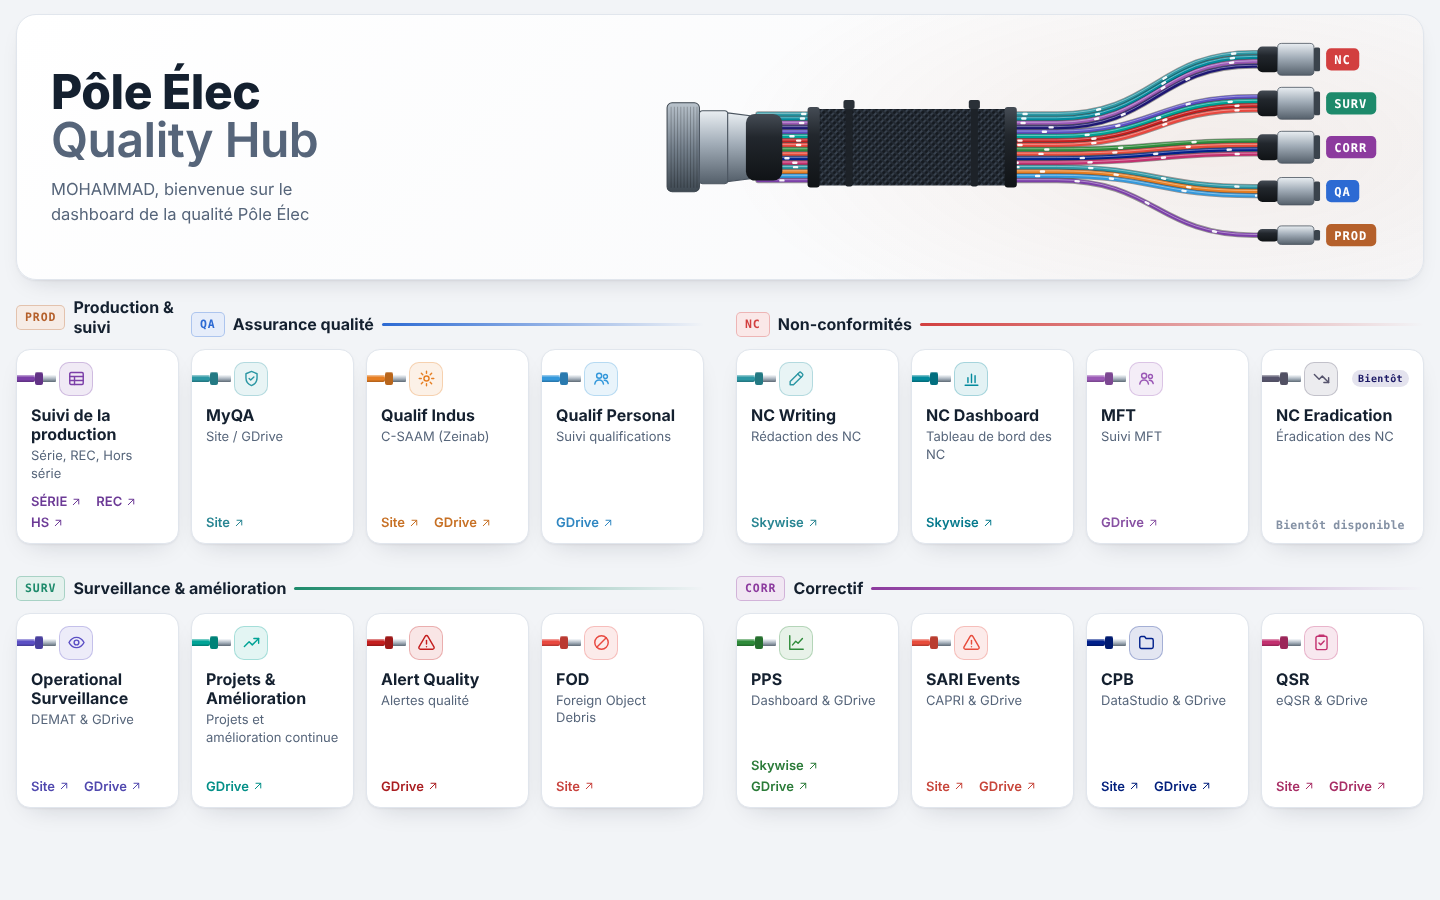
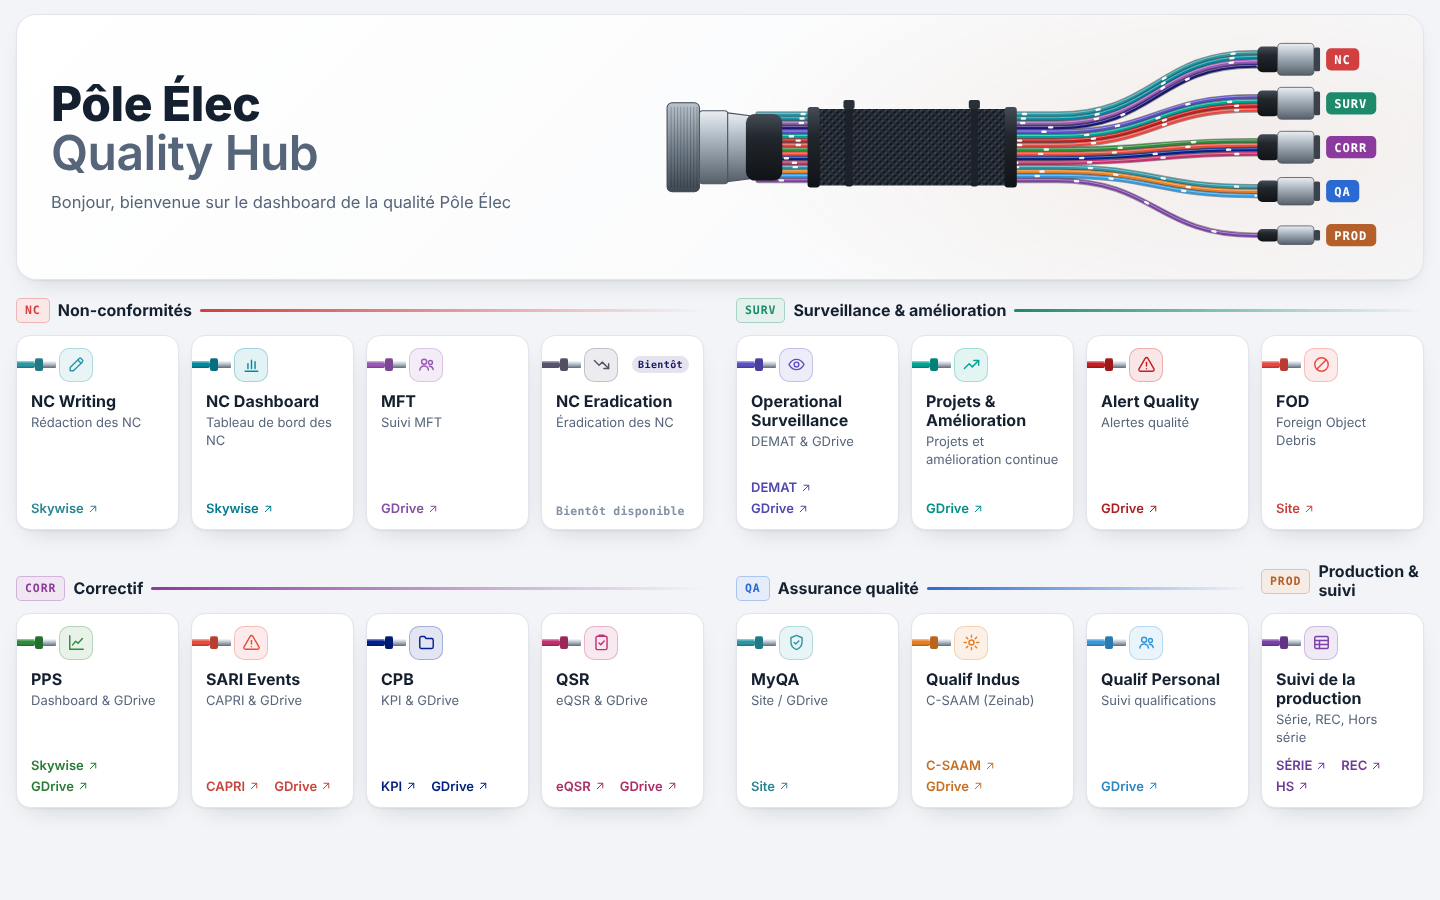
Hub: groups in the drawing's order, no name in the greeting, link names back
Groups now follow the drawing (Non-conformités, Surveillance, Correctif,
Assurance qualité, Production & suivi). The greeting no longer names
anyone ("Bonjour, bienvenue sur le dashboard de la qualité Pôle Élec").
Links with a name in the config show it again (DEMAT, C-SAAM, CAPRI,
eQSR); CPB's report link is "KPI". Single links keep the GDrive /
Skywise / Site label. README notes that a plain click opens links when
the page runs on its own.

Claude-Session: https://claude.ai/code/session_017pLD4XkEhj6BKkNzrEKz3H

diff --git a/09_pole_elec_hub/hub/pole_elec_hub.html b/09_pole_elec_hub/hub/pole_elec_hub.html
@@ -162,9 +162,9 @@ a.lk-i:hover svg,a.lk-i:focus-visible svg,.card.link:not(.multi):hover .lk-i svg
 //    links       instead of link, several addresses:
 //                [ { name: "GDrive", url: "https://..." }, ... ]
 //                (a link still set to "A_COMPLETER" is not shown)
-//  Each link is labelled by what it opens, found from its address: GDrive,
-//  Skywise or Site (Sheets for a spreadsheet). When two links of a card open
-//  the same kind of thing, they show their own names instead (SÉRIE, REC, HS).
+//  Each of these links shows its name. A tool with a single link shows what
+//  it opens, found from its address: GDrive, Skywise or Site (Sheets for a
+//  spreadsheet).
 //    guide       optional extra link, shown as "Guide utilisateur"
 //    soon        true = shown as "Bientôt disponible" and not clickable;
 //                delete the line when the tool goes live
@@ -174,45 +174,18 @@ a.lk-i:hover svg,a.lk-i:focus-visible svg,.card.link:not(.multi):hover .lk-i svg
 //
 //  The page has eight cards per row on a wide screen (four below 1240 px),
 //  all the same size. Groups follow in the order below and share a row while
-//  they fit in it (here Production & suivi, Assurance qualité and
-//  Non-conformités: 1 + 3 + 4 tools; then Surveillance & amélioration and
-//  Correctif: 4 + 4); otherwise a group starts a new row.
+//  they fit in it (here Non-conformités and Surveillance & amélioration:
+//  4 + 4 tools; then Correctif, Assurance qualité and Production & suivi:
+//  4 + 3 + 1); otherwise a group starts a new row. The drawing puts the
+//  biggest groups at the top, so keep the groups in that order to match it.
 // =============================================================================
 
 const HUB_CONFIG = {
   title: "Pôle Élec",
   subtitle: "Quality Hub",
-  // in Slate the first name comes from {{user.firstName}}
-  welcome: "MOHAMMAD, bienvenue sur le dashboard de la qualité Pôle Élec",
+  welcome: "Bonjour, bienvenue sur le dashboard de la qualité Pôle Élec",
 
   groups: [
-    {
-      name: "Production & suivi", code: "PROD", color: "#b5602b",
-      tools: [
-        { name: "Suivi de la production", description: "Série, REC, Hors série", icon: "table", color: "#7b3fa8",
-          links: [
-            { name: "SÉRIE", url: "https://docs.google.com/spreadsheets/d/1ZiR6qiyPivrTtRxDHg43n0SApw3LIw15SGXKZb51e4c/edit?gid=0#gid=0" },
-            { name: "REC", url: "https://docs.google.com/spreadsheets/d/1bUtT0iVMSCTUDYNmFqPJDf3PRiowM0yhojg6MTv4HfY/edit?gid=0#gid=0" },
-            { name: "HS", url: "https://docs.google.com/spreadsheets/d/1_yBq9OYhxNDydYhHy8PQtPVJEFncIMymBPIpRG2Qb1o/edit?gid=0#gid=0" }
-          ]
-        }
-      ]
-    },
-    {
-      name: "Assurance qualité", code: "QA", color: "#2c6ad3",
-      tools: [
-        { name: "MyQA", description: "Site / GDrive", icon: "shield", color: "#2c97a4",
-          link: "https://sites.google.com/airbus.com/myqa-tool-fr/accueil" },
-        { name: "Qualif Indus", description: "C-SAAM (Zeinab)", icon: "gear", color: "#e67e22",
-          links: [
-            { name: "C-SAAM", url: "https://pac.intra.corp/airbus/ac/internal/1W79/zcsaam_new/start.html?saml2idp=1s14:hub-p:saml2#/IQRegister" },
-            { name: "GDrive", url: "https://drive.google.com/drive/folders/1UEeVKj2uC1cDQbI-vEmktx6b4oJOP3o_" }
-          ]
-        },
-        { name: "Qualif Personal", description: "Suivi qualifications", icon: "people", color: "#3498db",
-          link: "https://drive.google.com/drive/folders/11ZpFytNOF6aQMO8YE3hDUy7XNBkCofaE" }
-      ]
-    },
     {
       name: "Non-conformités", code: "NC", color: "#d23f3f",
       tools: [
@@ -259,9 +232,9 @@ const HUB_CONFIG = {
             { name: "GDrive", url: "https://drive.google.com/drive/folders/1m0bYZ-A_lOKRfbfXfjfLyXN5pwDhOKlr" }
           ]
         },
-        { name: "CPB", description: "DataStudio & GDrive", icon: "folder", color: "#00208b",
+        { name: "CPB", description: "KPI & GDrive", icon: "folder", color: "#00208b",
           links: [
-            { name: "Lien", url: "https://datastudio.google.com/u/0/reporting/09b0a3bd-a6da-4be0-92e3-3805e3df8344/page/p_p2eag9tand/edit" },
+            { name: "KPI", url: "https://datastudio.google.com/u/0/reporting/09b0a3bd-a6da-4be0-92e3-3805e3df8344/page/p_p2eag9tand/edit" },
             { name: "GDrive", url: "https://drive.google.com/drive/folders/1L9W2W8j5fqVKlQuw7skTLHCQ2S9oHP0K" }
           ]
         },
@@ -269,6 +242,33 @@ const HUB_CONFIG = {
           links: [
             { name: "eQSR", url: "https://pac.intra.corp/airbus/ac/internal/G010/home/index.html?sap-client=001" },
             { name: "GDrive", url: "https://drive.google.com/drive/folders/1h_j30m-bGdgTYn2g9UWQ8-cHDq2S-JAf" }
+          ]
+        }
+      ]
+    },
+    {
+      name: "Assurance qualité", code: "QA", color: "#2c6ad3",
+      tools: [
+        { name: "MyQA", description: "Site / GDrive", icon: "shield", color: "#2c97a4",
+          link: "https://sites.google.com/airbus.com/myqa-tool-fr/accueil" },
+        { name: "Qualif Indus", description: "C-SAAM (Zeinab)", icon: "gear", color: "#e67e22",
+          links: [
+            { name: "C-SAAM", url: "https://pac.intra.corp/airbus/ac/internal/1W79/zcsaam_new/start.html?saml2idp=1s14:hub-p:saml2#/IQRegister" },
+            { name: "GDrive", url: "https://drive.google.com/drive/folders/1UEeVKj2uC1cDQbI-vEmktx6b4oJOP3o_" }
+          ]
+        },
+        { name: "Qualif Personal", description: "Suivi qualifications", icon: "people", color: "#3498db",
+          link: "https://drive.google.com/drive/folders/11ZpFytNOF6aQMO8YE3hDUy7XNBkCofaE" }
+      ]
+    },
+    {
+      name: "Production & suivi", code: "PROD", color: "#b5602b",
+      tools: [
+        { name: "Suivi de la production", description: "Série, REC, Hors série", icon: "table", color: "#7b3fa8",
+          links: [
+            { name: "SÉRIE", url: "https://docs.google.com/spreadsheets/d/1ZiR6qiyPivrTtRxDHg43n0SApw3LIw15SGXKZb51e4c/edit?gid=0#gid=0" },
+            { name: "REC", url: "https://docs.google.com/spreadsheets/d/1bUtT0iVMSCTUDYNmFqPJDf3PRiowM0yhojg6MTv4HfY/edit?gid=0#gid=0" },
+            { name: "HS", url: "https://docs.google.com/spreadsheets/d/1_yBq9OYhxNDydYhHy8PQtPVJEFncIMymBPIpRG2Qb1o/edit?gid=0#gid=0" }
           ]
         }
       ]
@@ -325,10 +325,8 @@ if(!C||!Array.isArray(C.groups)){
         const a=(u,label,c)=>'<a class="'+c+'" href="'+esc(u)+'" target="_blank" rel="noopener">'+esc(label)+'</a>';
         const guide=t.guide&&!todo(t.guide)?a(t.guide,"Guide utilisateur","guide"):'';
         const name=state==="link"&&!multi?a(t.link,t.name,"stretch"):esc(t.name);
-        // each link is labelled by what it opens; links of the same kind on one card keep their own names
-        const items=(multi?list:[{url:t.link}]).map(l=>({url:l.url, own:l.name, label:dest(l.url)}));
-        const same={}; items.forEach(x=>same[x.label]=(same[x.label]||0)+1);
-        items.forEach(x=>{ if(x.own&&same[x.label]>1) x.label=x.own; });
+        // each link shows its name from the config; a single link is labelled by what it opens
+        const items=(multi?list:[{url:t.link}]).map(l=>({url:l.url, label:l.name||dest(l.url)}));
         const label=x=>'<span class="lk-t">'+esc(x.label)+'</span>'+svgI("ext");
         const foot=state==="soon"?'<span class="state">Bientôt disponible</span>'
                   :state==="nolink"?'<span class="state">Lien à compléter</span>'

diff --git a/09_pole_elec_hub/slate/hub.js b/09_pole_elec_hub/slate/hub.js
@@ -16,9 +16,9 @@
 //    links       instead of link, several addresses:
 //                [ { name: "GDrive", url: "https://..." }, ... ]
 //                (a link still set to "A_COMPLETER" is not shown)
-//  Each link is labelled by what it opens, found from its address: GDrive,
-//  Skywise or Site (Sheets for a spreadsheet). When two links of a card open
-//  the same kind of thing, they show their own names instead (SÉRIE, REC, HS).
+//  Each of these links shows its name. A tool with a single link shows what
+//  it opens, found from its address: GDrive, Skywise or Site (Sheets for a
+//  spreadsheet).
 //    guide       optional extra link, shown as "Guide utilisateur"
 //    soon        true = shown as "Bientôt disponible" and not clickable;
 //                delete the line when the tool goes live
@@ -28,45 +28,18 @@
 //
 //  The page has eight cards per row on a wide screen (four below 1240 px),
 //  all the same size. Groups follow in the order below and share a row while
-//  they fit in it (here Production & suivi, Assurance qualité and
-//  Non-conformités: 1 + 3 + 4 tools; then Surveillance & amélioration and
-//  Correctif: 4 + 4); otherwise a group starts a new row.
+//  they fit in it (here Non-conformités and Surveillance & amélioration:
+//  4 + 4 tools; then Correctif, Assurance qualité and Production & suivi:
+//  4 + 3 + 1); otherwise a group starts a new row. The drawing puts the
+//  biggest groups at the top, so keep the groups in that order to match it.
 // =============================================================================
 
 const HUB_CONFIG = {
   title: "Pôle Élec",
   subtitle: "Quality Hub",
-  // in Slate the first name comes from {{user.firstName}}
-  welcome: "MOHAMMAD, bienvenue sur le dashboard de la qualité Pôle Élec",
+  welcome: "Bonjour, bienvenue sur le dashboard de la qualité Pôle Élec",
 
   groups: [
-    {
-      name: "Production & suivi", code: "PROD", color: "#b5602b",
-      tools: [
-        { name: "Suivi de la production", description: "Série, REC, Hors série", icon: "table", color: "#7b3fa8",
-          links: [
-            { name: "SÉRIE", url: "https://docs.google.com/spreadsheets/d/1ZiR6qiyPivrTtRxDHg43n0SApw3LIw15SGXKZb51e4c/edit?gid=0#gid=0" },
-            { name: "REC", url: "https://docs.google.com/spreadsheets/d/1bUtT0iVMSCTUDYNmFqPJDf3PRiowM0yhojg6MTv4HfY/edit?gid=0#gid=0" },
-            { name: "HS", url: "https://docs.google.com/spreadsheets/d/1_yBq9OYhxNDydYhHy8PQtPVJEFncIMymBPIpRG2Qb1o/edit?gid=0#gid=0" }
-          ]
-        }
-      ]
-    },
-    {
-      name: "Assurance qualité", code: "QA", color: "#2c6ad3",
-      tools: [
-        { name: "MyQA", description: "Site / GDrive", icon: "shield", color: "#2c97a4",
-          link: "https://sites.google.com/airbus.com/myqa-tool-fr/accueil" },
-        { name: "Qualif Indus", description: "C-SAAM (Zeinab)", icon: "gear", color: "#e67e22",
-          links: [
-            { name: "C-SAAM", url: "https://pac.intra.corp/airbus/ac/internal/1W79/zcsaam_new/start.html?saml2idp=1s14:hub-p:saml2#/IQRegister" },
-            { name: "GDrive", url: "https://drive.google.com/drive/folders/1UEeVKj2uC1cDQbI-vEmktx6b4oJOP3o_" }
-          ]
-        },
-        { name: "Qualif Personal", description: "Suivi qualifications", icon: "people", color: "#3498db",
-          link: "https://drive.google.com/drive/folders/11ZpFytNOF6aQMO8YE3hDUy7XNBkCofaE" }
-      ]
-    },
     {
       name: "Non-conformités", code: "NC", color: "#d23f3f",
       tools: [
@@ -113,9 +86,9 @@ const HUB_CONFIG = {
             { name: "GDrive", url: "https://drive.google.com/drive/folders/1m0bYZ-A_lOKRfbfXfjfLyXN5pwDhOKlr" }
           ]
         },
-        { name: "CPB", description: "DataStudio & GDrive", icon: "folder", color: "#00208b",
+        { name: "CPB", description: "KPI & GDrive", icon: "folder", color: "#00208b",
           links: [
-            { name: "Lien", url: "https://datastudio.google.com/u/0/reporting/09b0a3bd-a6da-4be0-92e3-3805e3df8344/page/p_p2eag9tand/edit" },
+            { name: "KPI", url: "https://datastudio.google.com/u/0/reporting/09b0a3bd-a6da-4be0-92e3-3805e3df8344/page/p_p2eag9tand/edit" },
             { name: "GDrive", url: "https://drive.google.com/drive/folders/1L9W2W8j5fqVKlQuw7skTLHCQ2S9oHP0K" }
           ]
         },
@@ -123,6 +96,33 @@ const HUB_CONFIG = {
           links: [
             { name: "eQSR", url: "https://pac.intra.corp/airbus/ac/internal/G010/home/index.html?sap-client=001" },
             { name: "GDrive", url: "https://drive.google.com/drive/folders/1h_j30m-bGdgTYn2g9UWQ8-cHDq2S-JAf" }
+          ]
+        }
+      ]
+    },
+    {
+      name: "Assurance qualité", code: "QA", color: "#2c6ad3",
+      tools: [
+        { name: "MyQA", description: "Site / GDrive", icon: "shield", color: "#2c97a4",
+          link: "https://sites.google.com/airbus.com/myqa-tool-fr/accueil" },
+        { name: "Qualif Indus", description: "C-SAAM (Zeinab)", icon: "gear", color: "#e67e22",
+          links: [
+            { name: "C-SAAM", url: "https://pac.intra.corp/airbus/ac/internal/1W79/zcsaam_new/start.html?saml2idp=1s14:hub-p:saml2#/IQRegister" },
+            { name: "GDrive", url: "https://drive.google.com/drive/folders/1UEeVKj2uC1cDQbI-vEmktx6b4oJOP3o_" }
+          ]
+        },
+        { name: "Qualif Personal", description: "Suivi qualifications", icon: "people", color: "#3498db",
+          link: "https://drive.google.com/drive/folders/11ZpFytNOF6aQMO8YE3hDUy7XNBkCofaE" }
+      ]
+    },
+    {
+      name: "Production & suivi", code: "PROD", color: "#b5602b",
+      tools: [
+        { name: "Suivi de la production", description: "Série, REC, Hors série", icon: "table", color: "#7b3fa8",
+          links: [
+            { name: "SÉRIE", url: "https://docs.google.com/spreadsheets/d/1ZiR6qiyPivrTtRxDHg43n0SApw3LIw15SGXKZb51e4c/edit?gid=0#gid=0" },
+            { name: "REC", url: "https://docs.google.com/spreadsheets/d/1bUtT0iVMSCTUDYNmFqPJDf3PRiowM0yhojg6MTv4HfY/edit?gid=0#gid=0" },
+            { name: "HS", url: "https://docs.google.com/spreadsheets/d/1_yBq9OYhxNDydYhHy8PQtPVJEFncIMymBPIpRG2Qb1o/edit?gid=0#gid=0" }
           ]
         }
       ]
@@ -179,10 +179,8 @@ if(!C||!Array.isArray(C.groups)){
         const a=(u,label,c)=>'<a class="'+c+'" href="'+esc(u)+'" target="_blank" rel="noopener">'+esc(label)+'</a>';
         const guide=t.guide&&!todo(t.guide)?a(t.guide,"Guide utilisateur","guide"):'';
         const name=state==="link"&&!multi?a(t.link,t.name,"stretch"):esc(t.name);
-        // each link is labelled by what it opens; links of the same kind on one card keep their own names
-        const items=(multi?list:[{url:t.link}]).map(l=>({url:l.url, own:l.name, label:dest(l.url)}));
-        const same={}; items.forEach(x=>same[x.label]=(same[x.label]||0)+1);
-        items.forEach(x=>{ if(x.own&&same[x.label]>1) x.label=x.own; });
+        // each link shows its name from the config; a single link is labelled by what it opens
+        const items=(multi?list:[{url:t.link}]).map(l=>({url:l.url, label:l.name||dest(l.url)}));
         const label=x=>'<span class="lk-t">'+esc(x.label)+'</span>'+svgI("ext");
         const foot=state==="soon"?'<span class="state">Bientôt disponible</span>'
                   :state==="nolink"?'<span class="state">Lien à compléter</span>'

diff --git a/09_pole_elec_hub/README.md b/09_pole_elec_hub/README.md
@@ -12,17 +12,19 @@ The page to use is `hub/pole_elec_hub.html` (previews: `screenshots/hub_final.pn
 
 For Slate, `slate/` holds the same page in three parts: `hub.html` (markup), `hub.css` and `hub.js` (with `HUB_CONFIG` at the top). After changing `hub/pole_elec_hub.html`, run `python build_slate.py` to rebuild them.
 
-Content: Mohammad's own list of 21 Oct (links, groups and the tools with several links), built on the Slate export of the current app (`06_input_data/slate_hub_export_2026-10-20.json`). Five groups, sixteen tools:
+Content: Mohammad's own list of 21 Oct (links, groups and the tools with several links), built on the Slate export of the current app (`06_input_data/slate_hub_export_2026-10-20.json`). Five groups, sixteen tools, in the order of the drawing (biggest groups at the top):
 
-- **Production & suivi:** Suivi de la production (three buttons: SÉRIE, REC, HS).
-- **Assurance qualité:** MyQA, Qualif Indus (C-SAAM, GDrive), Qualif Personal.
 - **Non-conformités:** NC Writing, NC Dashboard, MFT, NC Eradication (shown as "Bientôt disponible" until it goes live; its link and user guide are already in the config).
 - **Surveillance & amélioration:** Operational Surveillance (DEMAT, GDrive), Projets & Amélioration, Alert Quality, FOD.
-- **Correctif:** PPS (Skywise, GDrive), SARI Events (CAPRI, GDrive), CPB (Lien, GDrive), QSR (eQSR, GDrive).
+- **Correctif:** PPS (Skywise, GDrive), SARI Events (CAPRI, GDrive), CPB (KPI, GDrive), QSR (eQSR, GDrive).
+- **Assurance qualité:** MyQA, Qualif Indus (C-SAAM, GDrive), Qualif Personal.
+- **Production & suivi:** Suivi de la production (SÉRIE, REC, HS).
 
-At the foot of each card, every link is a short text link labelled by what it opens, found from its address: **GDrive**, **Skywise** or **Site** (any other web page, e.g. DEMAT, C-SAAM, CAPRI, eQSR, DataStudio), followed by a small ↗ and underlined on hover. When links of one card open the same kind of thing they keep their own names (SÉRIE, REC, HS). A tool with one `link` opens from anywhere on its card; with `links`, only the labels are clickable, so that card does not lift on hover. A tool with a single `link` opens from anywhere on its card.
+The greeting is "Bonjour, bienvenue sur le dashboard de la qualité Pôle Élec", with no name.
 
-On a wide screen the page has eight cards per row, all the same size, and groups share a row while they fit: Production & suivi, Assurance qualité and Non-conformités (1 + 3 + 4) on the first row, Surveillance & amélioration and Correctif (4 + 4) on the second. Both rows split after the fourth card, so the page gets a wider gap there and reads as a left half and a right half. Everything is visible at once on a 1440 × 900 screen. Between 1000 and 1240 px wide there are four cards per row; below 1000 px the groups go one per row with two cards per row, and on a phone the cards stack.
+At the foot of each card, every link is a short text link followed by a small ↗, underlined on hover. A tool with several `links` shows their names (DEMAT, GDrive…). A tool with a single `link` shows what it opens, found from its address: **GDrive**, **Skywise** or **Site**, and opens from anywhere on its card; on a several-link card only the names are clickable, so that card does not lift on hover.
+
+On a wide screen the page has eight cards per row, all the same size, and groups share a row while they fit: Non-conformités and Surveillance & amélioration (4 + 4) on the first row, Correctif, Assurance qualité and Production & suivi (4 + 3 + 1) on the second. Both rows split after the fourth card, so the page gets a wider gap there and reads as a left half and a right half. Everything is visible at once on a 1440 × 900 screen. Between 1000 and 1240 px wide there are four cards per row; below 1000 px the groups go one per row with two cards per row, and on a phone the cards stack.
 
 ## The five templates (design round of 20 Oct)
 
@@ -54,7 +56,6 @@ All five work on a wide screen, a laptop and a phone, can be used with the keybo
 ## Moving the chosen one into Slate (to check with whoever builds the Slate app)
 
 - The page builds the cards and draws the wires with JavaScript, so it needs a Slate widget that runs JavaScript (a custom widget with HTML, CSS and JS boxes): paste `slate/hub.html`, `slate/hub.css` and `slate/hub.js` into them. A plain HTML text widget that strips scripts would show an empty page.
-- If the widget runs in a sandboxed frame, it must allow popups, or the links (which open a new tab) will not open.
-- The greeting has the name written in (`userName` in the config); in Slate it can come from `{{user.firstName}}`.
+- Links open in a new tab. Opened on its own, the page opens them on a plain click (checked); if in Slate they only open with Ctrl+click, the Slate editor or the widget's sandbox is catching the click: check in the app's view mode, and the widget must allow popups.
 - No external font: the page uses Segoe UI and Consolas, which are on Windows PCs.
 - No Airbus or Skywise logo is used.
